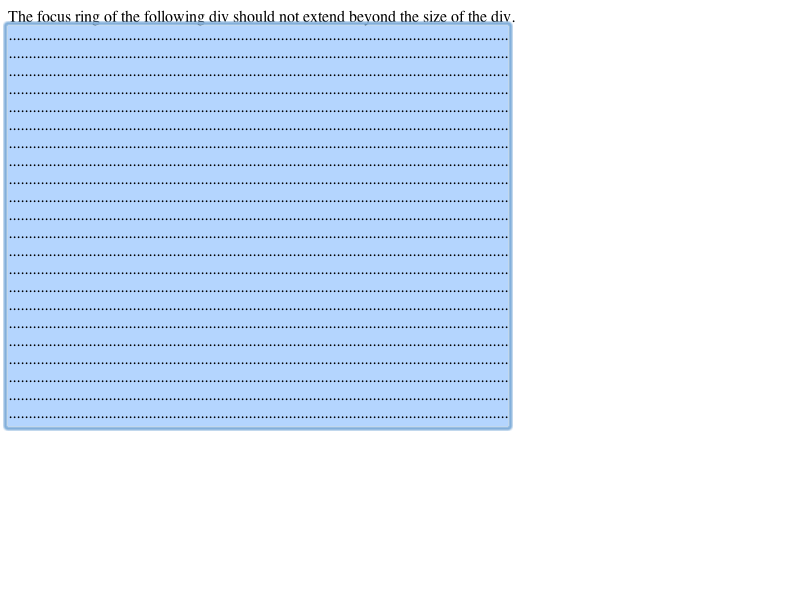
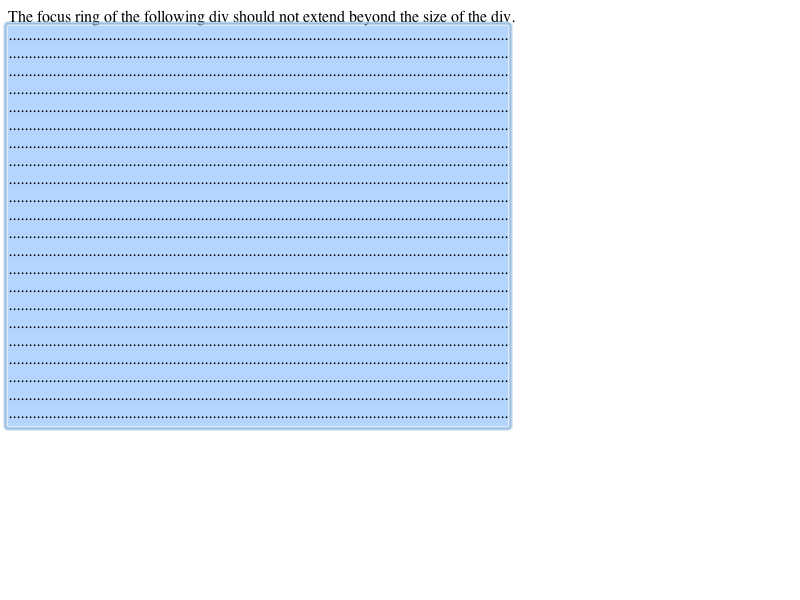
WebCore:
Reviewed by Dave Kilzer.

        - fix https://bugs.webkit.org/show_bug.cgi?id=25602
          REGRESSION: fast/overflow/overflow-focus-ring.html seems double-drawn
          on ToT

        Test: fast/layers/self-painting-outline.html

        * rendering/RenderLayer.cpp:
        (WebCore::RenderLayer::paintLayer): Paint the layer's own outline only
        if it is a self-painting layer.

LayoutTests:

        Reviewed by Dave Kilzer.

        - new test and correct results for https://bugs.webkit.org/show_bug.cgi?id=25602
          REGRESSION: fast/overflow/overflow-focus-ring.html seems double-drawn
          on ToT

        * fast/layers/self-painting-outline.html: Added.
        * platform/mac/fast/overflow/overflow-focus-ring-expected.checksum: Updated.
        * platform/mac/fast/overflow/overflow-focus-ring-expected.png: Updated.
        * platform/mac/fast/layers/self-painting-outline-expected.checksum: Added.
        * platform/mac/fast/layers/self-painting-outline-expected.png: Added.
        * platform/mac/fast/layers/self-painting-outline-expected.txt: Added.

git-svn-id: https://svn.webkit.org/repository/webkit/trunk@43458 268f45cc-cd09-0410-ab3c-d52691b4dbfc

Changed region(s): [[0.0, 0.03, 0.6562, 0.72]]

diff --git a/LayoutTests/fast/layers/self-painting-outline.html b/LayoutTests/fast/layers/self-painting-outline.html
@@ -1,0 +1,16 @@
+<style>
+    div { padding: 50px; }
+    div div {
+        padding: 0;
+        width: 25px;
+        height: 25px;
+        background-color: rgb(127, 127, 127);
+        outline: 40px solid rgba(0, 0, 0, 0.5);
+     }
+</style>
+<div>
+    <div></div>
+</div>
+<div>
+    <div style="overflow: hidden;"></div>
+</div>

diff --git a/WebCore/rendering/RenderLayer.cpp b/WebCore/rendering/RenderLayer.cpp
@@ -2084,7 +2084,7 @@ void RenderLayer::paintLayer(RenderLayer* rootLayer, GraphicsContext* p,
         restoreClip(p, paintDirtyRect, clipRectToApply);
     }
     
-    if (!outlineRect.isEmpty()) {
+    if (!outlineRect.isEmpty() && isSelfPaintingLayer()) {
         // Paint our own outline
         RenderObject::PaintInfo paintInfo(p, outlineRect, PaintPhaseSelfOutline, false, paintingRootForRenderer, 0);
         setClip(p, paintDirtyRect, outlineRect);
